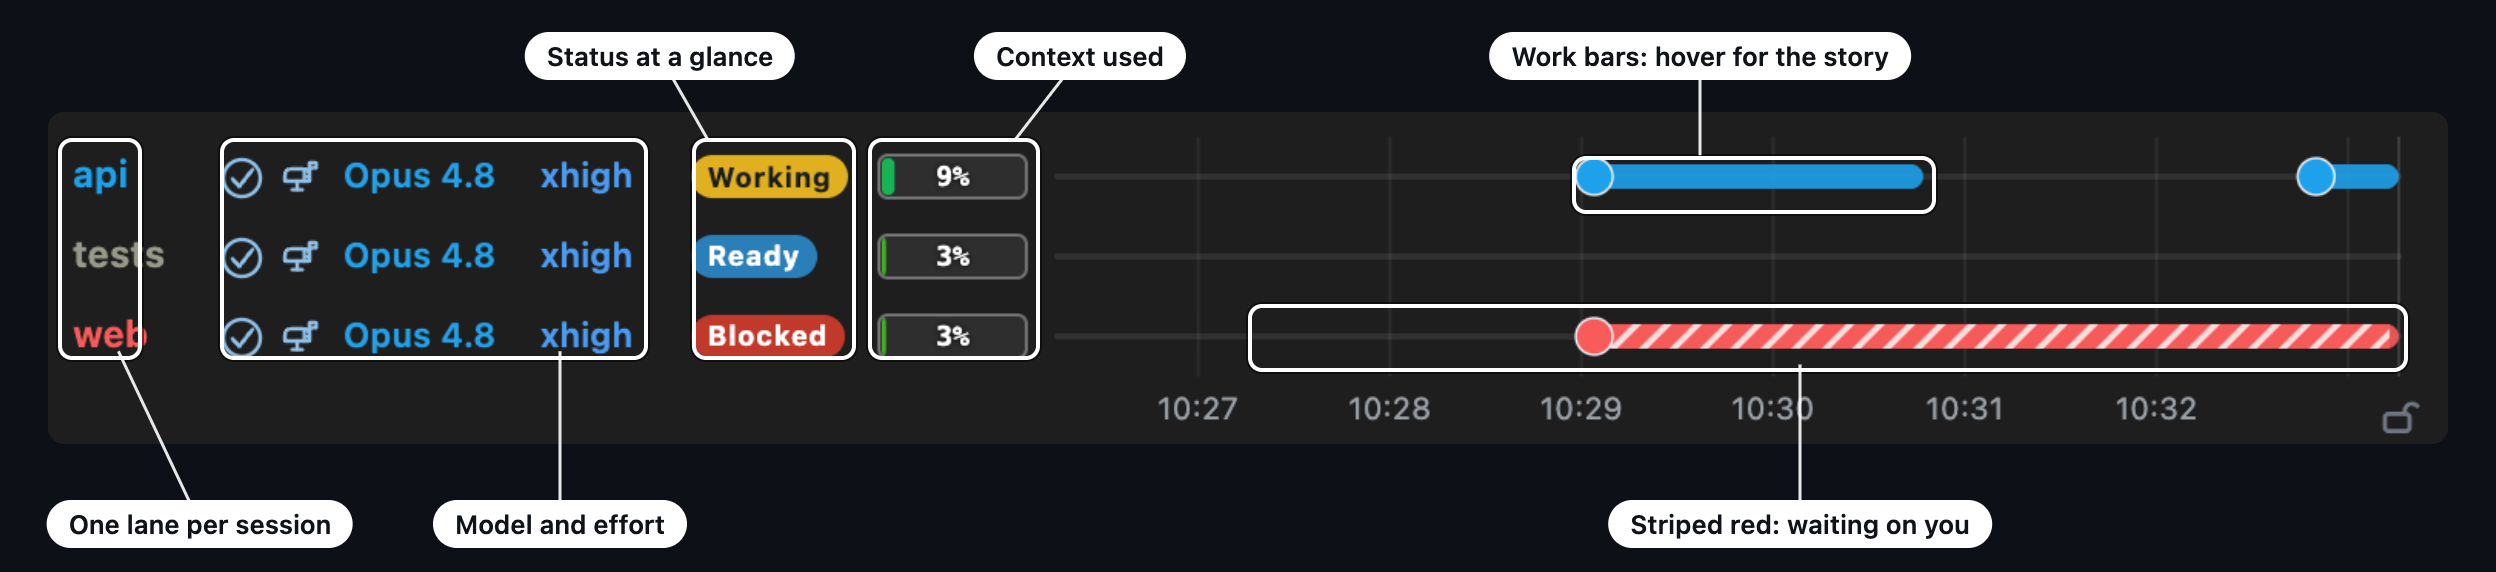
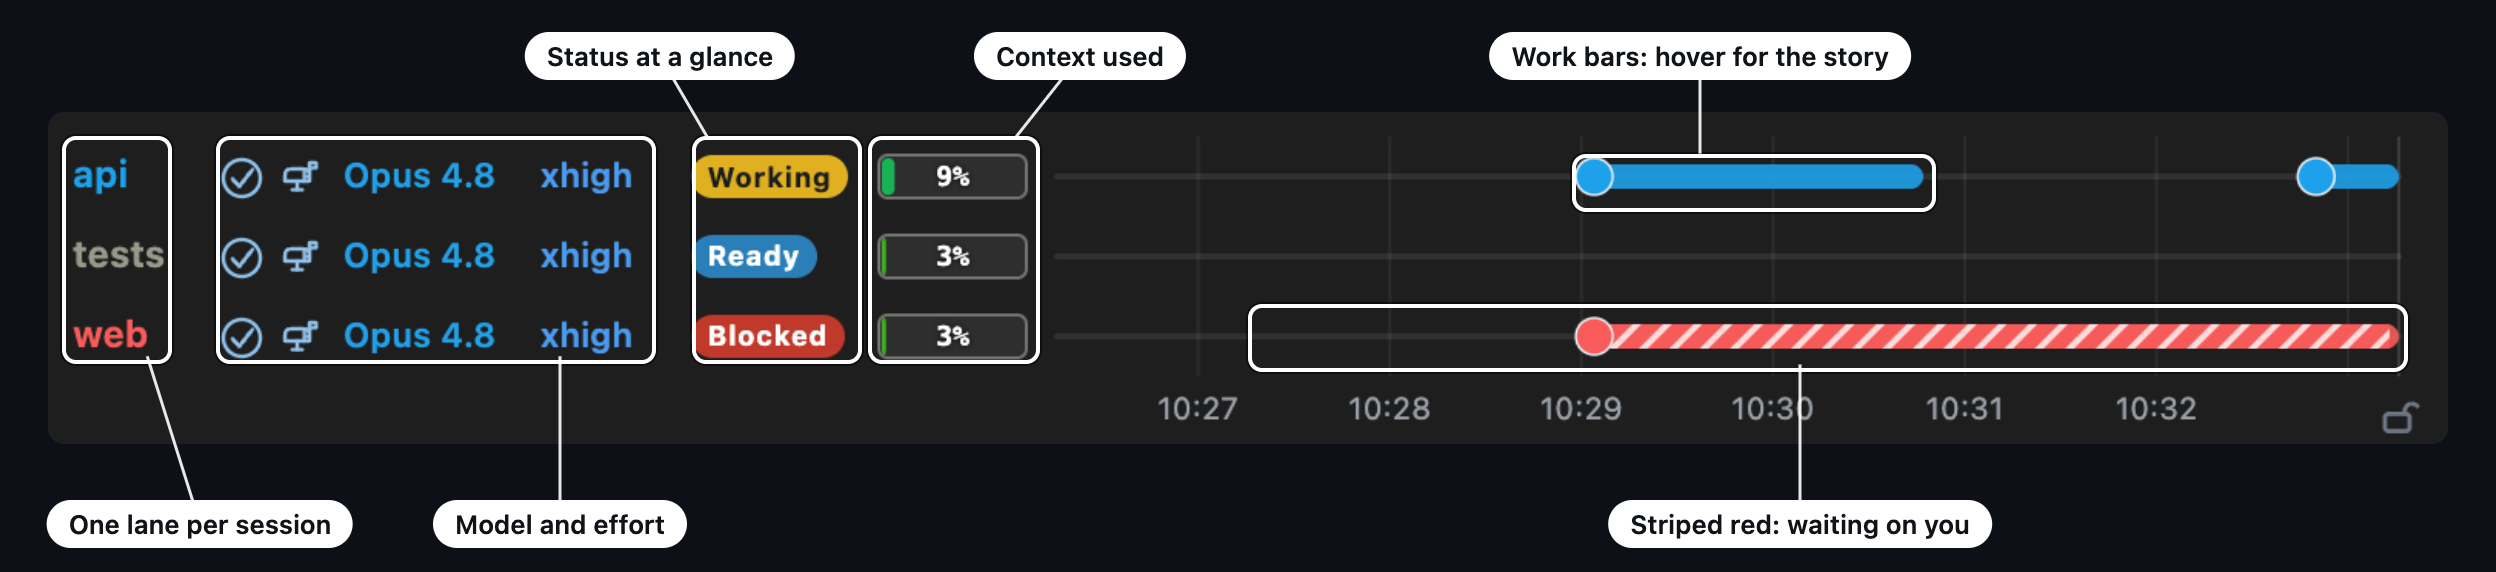
Docs: center every callout box; caption-above-figure pass over the guide
Re-center the annotated-figure boxes on their targets: the timeline's name,
model, status, and context columns; the feed's column headers, title, and
Clear button; the card-anatomy title and chip boxes; the chat fold and gist
boxes; the postal connector; and the dashboard's feed-pane outline. Move each
figure's explaining line above the image, and tighten the guide prose: the
feed-column and first-session lines read as single statements, and trailing
qualifiers come off the revival, clearing, and blocked-card sentences.

diff --git a/docs/guide/the-fleet.md b/docs/guide/the-fleet.md
@@ -22,25 +22,28 @@ API retry never shows as blocked, so a red chip is always worth a look.
 
 ## The feed: what needs you
 
+Cards land in three columns: moving on its own, waiting on you, and finished.
+A completed card carries its takeaway, so you read the outcome without
+opening anything.
+
 ![The feed's three columns, with the cues on a card](../assets/guide/feed-annotated.png){ width="100%" }
 
-Cards land in three columns: work that is moving on its own, work waiting on
-you, and work that finished, each completed card carrying a takeaway summary.
 [Tasks, not transcripts](tasks.md) covers what a card holds.
 
 ## The timeline: the fleet over time
 
+Each lane is one session; bars are stretches of work.
+
 ![A timeline lane per session, with status and context at the left](../assets/guide/timeline-annotated.png){ width="100%" }
 
-Each lane is one session; bars are stretches of work. The story of any bar is
-a hover away:
+The story of any bar is a hover away:
 
 ![Hovering a bar pops what happened and when](../assets/guide/timeline-hover.png){ width="100%" }
 
 ## The chat: a transcript built for reading
 
-![Tool calls fold into runs; each expands to one line per call](../assets/guide/chat-detail.png){ width="100%" }
-
 Turns read as gists and tool calls fold into runs, so scanning is cheap and
 every detail stays one click deeper: expand a run for its calls, and a call
 for its full input and output.
+
+![Tool calls fold into runs; each expands to one line per call](../assets/guide/chat-detail.png){ width="100%" }

diff --git a/docs/guide/tasks.md b/docs/guide/tasks.md
@@ -5,10 +5,8 @@ outcome instead of scrolling transcripts.
 
 The cards are generated automatically: Romp's judges read each session's
 transcript as it grows, group the work into tasks, and keep every card's
-status and summary current. Nothing depends on the agent remembering to
-report, and nothing is filed by hand.
-
-![The anatomy of a task card](../assets/guide/card-anatomy.png){ width="100%" }
+status and summary current, with no reporting step for the agent and no
+filing step for you.
 
 ## One card, three depths
 
@@ -16,6 +14,8 @@ The title is the gist. **Background** is why the work exists: what led to it
 and whose ask it is. **Summary** is what the agent did, written to stand on
 its own. Sub-tasks nest beneath when the work splits. Each level is one
 click, so you spend attention only where the work earns it.
+
+![The anatomy of a task card](../assets/guide/card-anatomy.png){ width="100%" }
 
 ## Tasks follow the work, not the session
 
@@ -26,6 +26,6 @@ along, so a handoff never drops a thread.
 ## Coming back to a thread
 
 Summaries favor the latest stretch of work, so a card you return to after
-hours away tells you what changed, not everything that ever happened. When
-you're done with a card, **Clear** it (**Undo clear** brings it back);
-cleared cards are archived, not lost.
+hours away tells you what changed since you last looked. When you're done
+with a card, **Clear** it (**Undo clear** brings it back); cleared cards are
+archived.

diff --git a/docs/reference.md b/docs/reference.md
@@ -1,7 +1,7 @@
 # Reference
 
-The command surface and the knobs. Everything here runs on the machine that
-hosts the kernel.
+This page lists every command and knob. Everything here runs on the machine
+that hosts the kernel.
 
 ## The `romp` command
 
@@ -48,7 +48,7 @@ the clicked path (omitted, the path is appended). The command runs on the
 kernel's machine.
 
 ```bash
-# ~/.config/romp/open-folder  — pick ONE line
+# ~/.config/romp/open-folder: pick one line
 open -a Ghostty {dir}               # macOS: a new Ghostty window there
 ghostty --working-directory={dir}   # Linux: Ghostty
 code {dir}                          # VS Code instead

diff --git a/docs/guide/sessions.md b/docs/guide/sessions.md
@@ -12,8 +12,8 @@ own color on every surface, so `api` is the same `api` wherever you see it.
 ## Revival
 
 Type a closed session's name into the picker and it offers to revive it: the
-session comes back live with its history intact, ready to continue. Stepping
-away, or shutting the laptop, costs nothing.
+session comes back live with its history intact. Stepping away, or shutting
+the laptop, costs nothing.
 
 The judges also keep a short archive per session (a headline and abstract of
 what it did), so a fleet of many sessions stays navigable months later.

diff --git a/docs/getting-started.md b/docs/getting-started.md
@@ -31,7 +31,7 @@ login service that keeps the kernel up (`ROMP_NO_SERVICE=1` opts out).
 4. Open the **feed**. Within a few turns a task card appears, tracking what
    the agent is doing and what needs you.
 
-That card is Romp working. [Tasks, not transcripts](guide/tasks.md) explains
+That card is Romp at work: [Tasks, not transcripts](guide/tasks.md) explains
 what it tracks, and [The fleet at a glance](guide/the-fleet.md) tours the
 views around it.
 

diff --git a/docs/guide/nudges.md b/docs/guide/nudges.md
@@ -9,7 +9,7 @@ agent, item by item, where each open piece stands: continue what it can, and
 say what blocks the rest.
 
 - If the agent can keep going, it does, and you were never interrupted.
-- If something needs you, the card flips to **Blocked**, naming exactly
+- If something needs you, the card flips to **Blocked** and names exactly
   what it needs.
 
 Either way you only get pulled in when you are the bottleneck.

diff --git a/docs/guide/remote-access.md b/docs/guide/remote-access.md
@@ -8,6 +8,8 @@ The kernel runs on your machine and serves the dashboard on
 Everything Romp stores stays local; the only external traffic is the `claude`
 CLI you already use.
 
+Machines federate into one fleet, and your phone reaches the same dashboard:
+
 ![One fleet across your phone, your laptop, and a remote host](../assets/guide/federation.png){ width="100%" }
 
 ## More machines, one fleet
